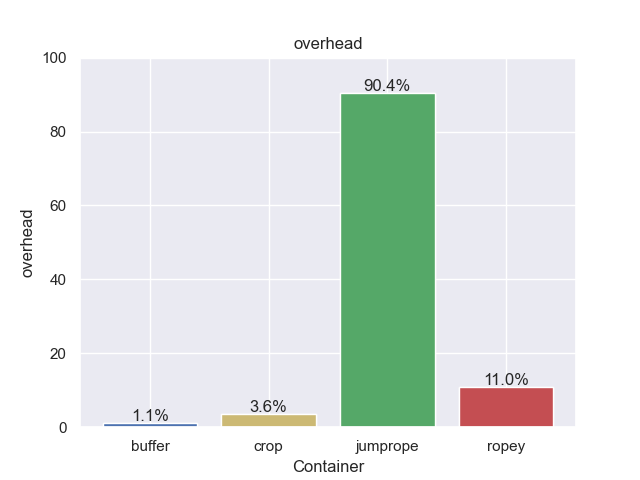
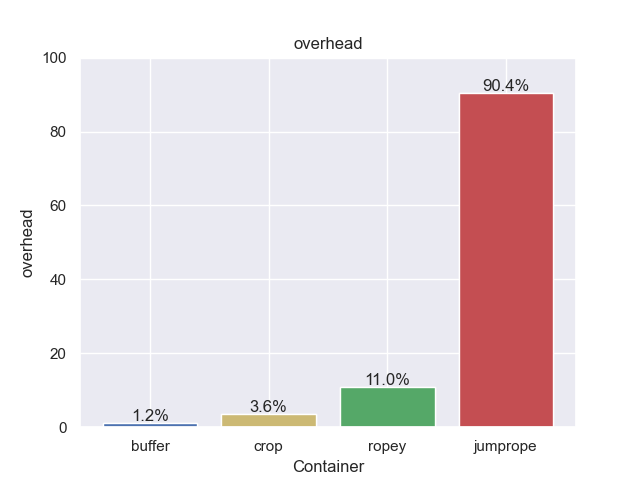
Update realworld figures to fit better and add more links

diff --git a/code/make_graphs.py b/code/make_graphs.py
@@ -40,7 +40,7 @@ def size_formatter(num, _):
 
 def report_overhead():
     data = {
-        'buffer': 1.1,
+        'buffer': 1.22,
         'crop': 3.6,
         'ropey': 11.0,
         'jumprope': 90.4,
@@ -63,7 +63,7 @@ def report_overhead():
 
 def report_edit_overhead():
     data = {
-        'buffer': 1.9,
+        'buffer': 2.63,
         'crop': 70.1,
         'jumprope': 365.7,
         'ropey': 80.7,
@@ -216,22 +216,80 @@ def report_realworld():
         },
     }
     # for each element in data create a bar chart. put all the charts in one figure
-    _, subs = plt.subplots(nrows=2, ncols=3)
-
     formatter_y = FuncFormatter(time_formatter_1p)
-    for i, (key, value) in enumerate(data.items()):
-        x = i % 2
-        y = i % 3
-        subs[x, y].bar(value.keys(), value.values())
-        subs[x, y].bar(value.keys(), value.values(), color=['b', 'y', 'g', 'r'])
-        subs[x, y].set_title(key)
-        subs[x, y].yaxis.set_major_formatter(formatter_y)
+    plt.rcParams["figure.figsize"] = (8,4)
 
-    subs[1, 2].remove()
+    fig, subs = plt.subplots(ncols=2)
+    key = "automerge"
+    value = data[key]
+    subs[0].bar(value.keys(), value.values())
+    subs[0].bar(value.keys(), value.values(), color=['b', 'y', 'g', 'r'])
+    subs[0].set_title(key)
+    subs[0].yaxis.set_major_formatter(formatter_y)
 
-    plt.savefig('../static/images/realworld.png')
+    key = "rustcode"
+    value = data[key]
+    subs[1].bar(value.keys(), value.values())
+    subs[1].bar(value.keys(), value.values(), color=['b', 'y', 'g', 'r'])
+    subs[1].set_title(key)
+    subs[1].yaxis.set_major_formatter(formatter_y)
+
+    plt.subplots_adjust(wspace=0.3)
+
+    plt.savefig('../static/images/realworld1.png')
+
     if SHOW_PLOT:
         plt.show()
+    # plt.clf()
+
+    _, subs = plt.subplots(ncols=2)
+    key = "sveltecomponent"
+    value = data[key]
+    subs[0].bar(value.keys(), value.values())
+    subs[0].bar(value.keys(), value.values(), color=['b', 'y', 'g', 'r'])
+    subs[0].set_title(key)
+    subs[0].yaxis.set_major_formatter(formatter_y)
+
+    key = "seph-blog1"
+    value = data[key]
+    subs[1].bar(value.keys(), value.values())
+    subs[1].bar(value.keys(), value.values(), color=['b', 'y', 'g', 'r'])
+    subs[1].set_title(key)
+    subs[1].yaxis.set_major_formatter(formatter_y)
+
+    plt.subplots_adjust(wspace=0.3, hspace=0.3)
+    plt.savefig('../static/images/realworld2.png')
+
+    if SHOW_PLOT:
+        plt.show()
+    # plt.clf()
+
+    _, subs = plt.subplots(ncols=2)
+    key = "friendsforever"
+    value = data[key]
+    subs[0].bar(value.keys(), value.values())
+    subs[0].bar(value.keys(), value.values(), color=['b', 'y', 'g', 'r'])
+    subs[0].set_title(key)
+    subs[0].yaxis.set_major_formatter(formatter_y)
+
+    subs[1].remove()
+
+    plt.subplots_adjust(wspace=0.3, hspace=0.3)
+    plt.savefig('../static/images/realworld3.png')
+
+    if SHOW_PLOT:
+        plt.show()
+    plt.clf()
+
+
+def report_append():
+    data = {
+        'buffer': 131.8,
+        'crop': 225.3,
+        'jumprope': 808.7,
+        'ropey': 779.1,
+    }
+
 
 def report_smart_diff():
     naive = [367.70e3, 408.52e3, 414.83e3, 494.08e3, 658.56e3, 957.86e3, 1.3638e6, 1.7848e6, 2.2606e6, 2.7199e6, 3.1930e6, 3.6569e6, 4.0212e6, 4.5252e6, 4.9372e6]
@@ -361,15 +419,15 @@ def report_search_full():
 
 
 
-# report_overhead()
-# report_edit_overhead()
+report_overhead()
+report_edit_overhead()
 # report_move_gap()
 # report_resize()
 # report_from_string()
 # report_from_str()
 # report_save()
 # report_realworld()
-report_smart_diff()
+# report_smart_diff()
 # report_cursor_count()
 # report_cursor_distance()
 # report_search_full()

diff --git a/content/post/text-showdown-gap-buffers-vs-ropes.md b/content/post/text-showdown-gap-buffers-vs-ropes.md
@@ -2,63 +2,45 @@
 title = "text showdown: gap buffers vs ropes"
 author = ["Troy Hinckley"]
 date = 2023-08-07
+tags = ["rust", "emacs", "data-structures"]
 draft = true
 +++
 
-I have been working on a hobby project to reimagine the C core of Emacs in Rust. On this journey I reached the point where I needed some way to represent the text of a buffer. The simplest approach is to just use a large string or array of lines. However these each suffer from poor performance as the either the size or line length of text increases.
+I have been working on a hobby project to reimagine the C core of [Emacs in Rust](https://coredumped.dev/tags/rust/). On this journey I reached the point where I needed some way to represent the text of a buffer. The simplest approach is to just use a large string or array of lines. However these each suffer from poor performance as the either the size or line length of text increases.
 
-GNU Emacs has famously used a gap buffer to represent editable text. It's even mentioned by name on the [wikipedia](https://en.wikipedia.org/wiki/Gap_buffer) entry for it. Gap buffers have advantage of allowing fast local edits with a fairly simple design. I see it as analogous to the more general data structure, the "array". Because really a gap buffer is just an array that is optimized for inserting at a "cursor" instead of at the end. Using a gap buffer has served Emacs well over many decades.
+GNU Emacs has famously used a gap buffer to represent editable text. It's even mentioned by name on the [wikipedia](https://en.wikipedia.org/wiki/Gap_buffer) entry for it. Gap buffers have advantage of allowing fast local edits with a fairly simple design. Essentially you hold the text in giant array with a gap of unused bytes in the middle. When you insert text, you replace some of the bytes with text, making the gap smaller. When you want to insert somewhere else in the text, you move the gap to that location and do the same operation. Delete performs the opposite operation, expanding the gap. With this simple mechanism you can efficiently represent editable text.
 
-Despite this, Emacs seems largely alone in it's choice in the modern world. Most popular editors today use some variation of either a [piece table](https://code.visualstudio.com/blogs/2018/03/23/text-buffer-reimplementation) or a [rope](https://blog.jetbrains.com/fleet/2022/02/fleet-below-deck-part-ii-breaking-down-the-editor/). Rather then storing data as large contiguous array, these data structures chop the buffer into small chunks and operate on those. This enables them to avoid the O(N) penalty of moving the cursor when doing edits far away and the latency of resizing the buffer. Chris Wellons has a [post](https://nullprogram.com/blog/2017/09/07/) entitled "Gap Buffers Are Not Optimized for Multiple Cursors" giving an intuitive explanation for why gap buffers don't do well for non-localized edits.
+I see it as analogous to the more general data structure, the "array". Because really a gap buffer is just an array that is optimized for inserting at a "cursor" instead of at the end. Using a gap buffer has served Emacs well over many decades.
 
-So it seemed like the most obvious solution was to pick from one of Rusts [many rope crates](https://crates.io/search?q=ropey) and call it a day. But I was not entirely convinced. Modern computers can operate very quickly over linear memory. Despite looking worse on paper, arrays will often beat more complex data structures in the real world, even on operations that they are technically O(N). I wanted to see for myself. So I built a gap buffer and stacked it up against the competition.
+Despite this, Emacs seems largely alone in it's choice in the modern world. Most popular editors today use some variation of either a [piece table](https://code.visualstudio.com/blogs/2018/03/23/text-buffer-reimplementation) or a [rope](https://blog.jetbrains.com/fleet/2022/02/fleet-below-deck-part-ii-breaking-down-the-editor/). Rather then storing data as large contiguous array, these data structures chop the buffer into small chunks and operate on those. This enables them to avoid the O(N) penalty of moving the cursor when doing edits far away and the latency of resizing the buffer.
+
+Rust has [many rope crates](https://crates.io/search?q=ropey) that have had a lot of optimization work put in. The obvious thing to do was to just pick one and move on. But I wanted to see for myself how the gap buffer hold up to these more "advanced" data structures. Modern computers can operate very quickly over linear memory. So I built a gap buffer and stacked it up against the competition.
 
 
 ## design {#design}
 
-My gap buffer is fairly true to the original design, with one big change; I store metrics about the buffer in a separate tree. These metrics include things like char and line position, but could in theory include anything you want (like UTF-16 [code units](https://docs.rs/ropey/latest/ropey/struct.Rope.html#method.char_to_utf16_cu)). This means that _finding_ an arbitrary position in the buffer becomes at worse O(Log N), but we still have to pay the cost of moving the gap.
-
-
-## text data structure shoot out {#text-data-structure-shoot-out}
+[My gap buffer](https://github.com/CeleritasCelery/rune/tree/master/crates/text-buffer) is fairly true to the original design, with one big change; I store [metrics](https://github.com/CeleritasCelery/rune/blob/master/crates/text-buffer/src/metric.rs) about the buffer in a separate tree. These metrics include things like char and line position, but could in theory include anything you want (like UTF-16 [code units](https://docs.rs/ropey/latest/ropey/struct.Rope.html#method.char_to_utf16_cu)). This means that _finding_ an arbitrary position in the buffer becomes at worse O(logn), but we still have to pay the cost of moving the gap.
 
 The ropes that I will be comparing against are [ropey](https://docs.rs/ropey/latest/ropey/index.html), [crop](https://docs.rs/crop/0.3.0/crop/index.html), and [jumprope](https://docs.rs/jumprope/latest/jumprope/index.html). The last one is technically implemented via [skip lists](https://en.wikipedia.org/wiki/Skip_list), but that is really an implementation detail, the performance should be similar.
 
 
-## overhead {#overhead}
+## gap buffer costs {#gap-buffer-costs}
 
-Let's start out with memory overhead. The way to read this is if something has 50% overhead, that means you need 1.5GB of memory to open a 1GB file.
-
-{{< figure src="/images/buffer_overhead.png" >}}
-
-Woah! Jumprope is way outside the norm here, almost doubling the memory needed to open a file[^fn:1]. Crop and Ropey and much closer to what you would expect. However this is really the ideal case of opening a new file. Each rope node will be perfectly filled and the tree properly balanced.
-
-
-### edit overhead {#edit-overhead}
-
-Let's look at the overhead when edits are applied to the text. These could be things like large search and replace or multiple cursors. This tends to leave the ropes in a less ideal state, and hence have higher overhead.
-
-{{< figure src="/images/buffer_edit_overhead.png" >}}
-
-Fairly significant change for all ropes. Jumprope has gone through the roof, jumping so high that I didn't even bother expanding the plot to show it. Even crop, which had the lowest rope overhead in ideal conditions, has jumped almost 20x. The gap buffer on the other hand has barely moved. Unlike ropes, a gap buffer is always in ideal state with regards to layout.
-
-
-## buffer cost {#buffer-cost}
-
-Before we jump into benchmarks comparing ropes and gap buffers. Let's look at the time it takes to complete the two highest latency operations on gap buffers: resizing and moving the gap.
+Before we jump into [benchmarks](https://github.com/CeleritasCelery/rope-benches) comparing ropes and gap buffers. Let's look at the time it takes to complete the two highest latency operations on gap buffers: resizing and moving the gap. This is a cost that ropes don't share, because their worst case for an editing operation is O(logn).
 
 
 ### resize {#resize}
 
-Insertion in a gap buffer is _amortized_ O(1), just like an appending to an vector. But also like vectors, they only achieve this in the amortized case. Vectors need to resize once they get full, and this is a O(N) operation. But since the time between resizing is N appends, it averages out to O(1). Gap buffers are similar, except that we don't usually continue to grow the gap as the text gets larger (that would lead to more overhead). In this sense, it isn't truly O(1) insertion time, but even if it was, we generally care about the latency in interactive applications more then we care about average case.
+Insertion in a gap buffer is O(1), just like an appending to an vector. But also like vectors, they only achieve this in the amortized case. Vectors need to resize once they get full, and this is a O(N) operation. But since the time between resizing is N appends, it averages out to O(1). Gap buffers are similar, except that we don't usually continue to grow the gap as the text gets larger (that would lead to more overhead). In this sense, it isn't truly O(1) insertion time, but even if it was, we generally care about the latency in interactive applications more then we care about average case.
 
 {{< figure src="/images/buffer_resize.png" >}}
 
-Note that both axis are logarithmic. We can see that the cost to resize grows linearly with the size of the buffer, which is what we would expect. With a 1GB[^fn:2] file, it takes a little over 100ms to resize, which is starting to be perceptible.
+Note that both axis are logarithmic. We can see that the cost to resize grows linearly with the size of the buffer, which is what we would expect. With a 1GB[^fn:1] file, it takes a little over 100ms to resize, which is starting to be perceptible.
 
 
 ### moving the gap {#moving-the-gap}
 
-How long does it take to slide the gap a given distance? This delay is added anytime we edit a different part of the buffer then we are currently in.
+How long does it take to slide the gap a given distance? This delay is added anytime we edit a different part of the buffer then we are currently in. The farther the move, the longer it takes. Unlike resizing which strikes (from a users perspective) strikes randomly, this latency is easier to predict. You generally know when you are editing something farther then where you currently at.
 
 {{< figure src="/images/buffer_move_gap.png" >}}
 
@@ -67,12 +49,43 @@ Moving the gap 1GB is significantly faster then resizing 1GB, taking only 22ms. 
 In practice these latencies will be less of an issue, because giant files tend to be log files and auto generated output, which are rarely editing. But it is still an unavoidable cost of storing data in contiguous fixed-sized structure.
 
 
+## memory overhead {#memory-overhead}
+
+For our comparisions, let's start with memory overhead. The way to read this is if something has 50% overhead, that means you need 1.5GB of memory to open a 1GB file.
+
+{{< figure src="/images/buffer_overhead.png" >}}
+
+Woah! Jumprope is way outside the norm here, almost doubling the memory needed to open a file[^fn:2]. Crop and Ropey are much closer to what you would expect. However this is really the ideal case of opening a new file. Each rope node will be perfectly filled and the tree properly balanced.
+
+
+### edit overhead {#edit-overhead}
+
+Let's look at the overhead when edits are applied to the text. These could be things like large search and replace or multiple cursors. This tends to leave the ropes in a less ideal state, and hence have higher overhead.
+
+{{< figure src="/images/buffer_edit_overhead.png" >}}
+
+Fairly significant change for all ropes. Jumprope has gone through the roof, jumping so high that I didn't even bother expanding the plot to show it. Even crop, which had the lowest rope overhead in ideal conditions, has jumped almost 20x. The gap buffer on the other hand has barely moved. Unlike ropes, a gap buffer is always in ideal state with regards to layout. This unique property will show up later in the searching benchmarks.
+
+
+## real world {#real-world}
+
+To compare editing performance we have a set of 5 [real world](https://github.com/josephg/editing-traces) benchmarks from the author of jumprope. These are recordings or "traces" of actual people editing some text in an editor. Each benchmark starts empty, then replays thousands of edits and arrives at the some end text.
+
+![](/images/realworld1.png)
+![](/images/realworld2.png)
+![](/images/realworld3.png)
+
+Aside from ropey, all the containers have comparable performance. In all benchmarks but one, the gap buffer is the fastest, but not by any meaningful amount. This demonstrates that in the average case, insert and delete performance is fairly comparable between the different data structures. Let's zoom in on some specialized use cases.
+
+
 ## creating {#creating}
+
+So we have a sense of the memory overhead and average performance for the different containers. Here we will compare the time to load and save the text from the data structures.
 
 
 ### creating from a String {#creating-from-a-string}
 
-Let see how long it take to create a new data structure from a `String`. The string below is 1GB in size.
+How long it take to create a new data structure from a `String`. The string below is 1GB in size.
 
 {{< figure src="/images/from_string.png" >}}
 
@@ -92,20 +105,11 @@ What about saving a file? Here we are not going to benchmark the actual file sys
 All containers are pretty comparable on this front.
 
 
-## real world {#real-world}
-
-To start this off, we have a set of 4 [real world](https://github.com/josephg/editing-traces) benchmarks from the author of jumprope. These are recordings or "traces" of actual people editing some text in an editor. They represent a good baseline for performance.
-
-{{< figure src="/images/realworld.png" >}}
-
-Aside from ropey, all the containers have comparable performance. In all benchmarks but one, the gap buffer is the fastest, but not by any meaningful amount. I also want to emphasize here how crazy fast each of these are. The traces are thousands or tens of thousands of edits long, and even the slowest is still completed in milliseconds. For interactive edits, any container will be blazing fast.
-
-
 ## multiple cursors {#multiple-cursors}
 
-Back in 2017, Chris Wellons wrote a [blog post](https://nullprogram.com/blog/2017/09/07/) titled "Gap Buffers Are Not Optimized for Multiple Cursors". It makes the case that since gap buffers have to move the gap buffer back to the first cursor for each edit (a O(n) operation), they don't scale well with multiple cursors. [This](https://github.com/hauleth/sad.vim#why-not-multiple-cursors) idea [has](https://cdacamar.github.io/data%20structures/algorithms/benchmarking/text%20editors/c++/editor-data-structures/) now [become](https://github.com/emacs-ng/emacs-ng/issues/378#issuecomment-907577662) part [of](https://vms.wwwtech.de/notes/360) Internet [lore](https://vuink.com/post/ahyycebtenz-d-dpbz/blog/2017/09/07).
+Back in 2017, Chris Wellons wrote a [blog post](https://nullprogram.com/blog/2017/09/07/) titled "Gap Buffers Are Not Optimized for Multiple Cursors". It makes the case that since gap buffers have to move the gap buffer back to the first cursor for each edit (a O(n) operation), they don't scale well with multiple cursors. So instead of using multiple cursors, you should use some other editing operation like macros. [This](https://github.com/hauleth/sad.vim#why-not-multiple-cursors) idea [has](https://cdacamar.github.io/data%20structures/algorithms/benchmarking/text%20editors/c++/editor-data-structures/) now [become](https://github.com/emacs-ng/emacs-ng/issues/378#issuecomment-907577662) part [of](https://vms.wwwtech.de/notes/360) Internet [lore](https://vuink.com/post/ahyycebtenz-d-dpbz/blog/2017/09/07).
 
-I was not convinced by this argument. For one thing, there are no benchmarks, and many things that make sense intuitively don't actually play out that way in the real world. Also you can avoid the overhead of moving the gap back to first cursor with this one weird trick (computer scientists hate him!): Every time you do an edit, you reverse the direction you iterate through the cursors. If in one edit you go from the first cursor to the last, then the next edit you go from the last cursor to the first. This saves the overhead of moving the gap back to the first cursor each time. Essentially you just sweep the gap back and forth as you make edits. Let's benchmark this and see how well it works.
+I was not convinced by this argument. For one thing, there are no benchmarks, and many things that make sense intuitively don't actually play out that way in the real world. Also I realized you can avoid the overhead of moving the gap back to first cursor with this one weird trick (computer scientists hate him!): Every time you do an edit, you reverse the direction you iterate through the cursors. If in one edit you go from the first cursor to the last, then the next edit you go from the last cursor to the first. This saves the overhead of moving the gap back to the first cursor each time. Essentially you just sweep the gap back and forth as you make edits. Let's benchmark this and see how well it works.
 
 {{< figure src="/images/smart_diff.png" >}}
 
@@ -124,13 +128,13 @@ How does this compare to the rope implementations? We will start with cursors 10
 
 The relationship is almost perfectly linear, with crop and jumprope about twice as fast as ropey but 50% slower then the gap buffer. This relationship continues as we move beyond 10,000 cursors. So having high numbers of cursors doesn't impact gap buffers.
 
-But one thing might cause trouble is the distance _between_ the cursors. Let's benchmark it:
+But one thing might cause trouble is the distance _between_ the cursors. Let's benchmark 100 cursors while varying the average distance between them:
 
 {{< figure src="/images/cursor_distance.png" >}}
 
 Now the weakness of gap buffers start to show. The distance between cursors does not really matter to ropes, because every edit is O(logn), however it matters a lot to gap buffers. You can see that the ropes are all roughly flat, but the gap buffer has a positive slope. After about 1K jumprope and crop start to beat it, and after about 4K it falls behind ropey.
 
-However there is nothing special about multiple cursors with this relationship. Gap buffers struggle with long distance edits no matter what mechanism is used. It would be the same with macros, search and replace, etc.
+However there is nothing special about multiple cursors with this relationship. Gap buffers struggle with long distance edits no matter what mechanism is used. It would be the same with macros, search and replace, etc. Given that, I would claim that gap buffers are optimized for multiple cursors just fine, it is non-local edits that are the source of the issue.
 
 
 ## searching {#searching}
@@ -147,22 +151,22 @@ You might object that we making things too easy for the gap buffer because the g
 
 {{< figure src="/images/search_move.png" >}}
 
-It adds about 30% overhead to the gap search. This still doesn't put it anywhere near the ropes. Ultimately, the speed of search was one of the reasons that I favored gap buffer or ropes for my project. Emacs does a lot of searching.
+It adds about 30% overhead to the gap search. This still doesn't put it anywhere near the ropes. Ultimately, the speed of search was one of the reasons that I chose gap buffer over ropes for my project. Emacs does a lot of searching.
 
-That being said, many new libraries like tree-sitter are already designed to operate on non-contiguous chunks, and so need for search becomes less important.
+That being said, many new libraries like tree-sitter are already designed to operate on non-contiguous chunks, and so need for search becomes less important. We will see how this plays out in the future.
 
 
 ## what should you use? {#what-should-you-use}
 
-So is this to say that everyone should switch over at start using gap buffers? Not quite. Ropes are really powerful data structure, and they never have the latency spikes associated with resizing or moving the gap. In real world editing scenario's it isn't the best case or even the average case, it's the worst case tail latency that really matters. With ropes you get worse case O(logn) behavior for all editing operations. As files get larger the O(n) behavior of gap buffers starts to shows itself.
+So is this to say that everyone should switch over at start using gap buffers? Not quite. Ropes are really powerful data structure, and they never have the latency spikes associated with resizing or moving the gap. In real world editing scenario's it isn't the best case or even the average case, it's the worst case tail latency that really matters. With ropes you get worse case O(logn) behavior for all editing operations. As files get larger the extra latency associated with gap buffers starts to shows itself. On the flip side, in my experience the larger a file is the less like I am to be editing it, but the more likely I am to be searching it. These trade-offs work well in favor of gap buffers.
 
-And ropes have other benefits besides the good performance. Both Crop and Ropey support concurrent access from multiple threads.This lets you take snapshots to do asynchronous saves, backups, or multi-user edits.
+Ropes have other benefits besides the good performance. Both Crop and Ropey support concurrent access from multiple threads.This lets you take snapshots to do asynchronous saves, backups, or multi-user edits. This isn't something you could easily do with gap buffer.
 
-Despite all that, gap buffers showed they can do quite well when placed against more "advanced" data structures. Be very careful before you bet against arrays.
+Despite all that, gap buffers showed they can do quite well when placed against more "advanced" data structures. The way I see it, gap buffers are better for searching and lower memory usage, but ropes are better at non-local editing patterns.  Be very careful before you bet against arrays.
 
 
 ### have a comment? {#have-a-comment}
 
-[^fn:1]: [github.com/josephg/jumprope-rs/issues/5](https://github.com/josephg/jumprope-rs/issues/5)
-[^fn:2]: GB here means 2^30, as it should when [talking about base-2 memory](https://www.merriam-webster.com/dictionary/kilobyte). The only people who think it should be 10^9 are hard drive salesmen and the type of people who like to correct all their friends by saying "it's centripetal, not centrifugal force!". And also "gibibyte" sounds like Pokémon invented by a first grader.
+[^fn:1]: GB here means 2^30, as it should when [talking about base-2 memory](https://www.merriam-webster.com/dictionary/kilobyte). The only people who think it should be 10^9 are hard drive salesmen and the type of people who like to correct all their friends by saying "it's centripetal, not centrifugal force!". And also "gibibyte" sounds like Pokémon invented by a first grader.
+[^fn:2]: [github.com/josephg/jumprope-rs/issues/5](https://github.com/josephg/jumprope-rs/issues/5)
 [^fn:3]: You may think this unnecessary, and instead you only run the regex one line at a time. If the line is completely contained within a chunk you don't need to allocate anything. And indeed both crop and ropey provide an iterator over the lines of text. But in my testing this was about an order of magnitude slower then just copying the whole allocation and searching. I not sure if that mostly comes from the iteration overhead, or if small regex runs are really inefficient, but it is not viable.
